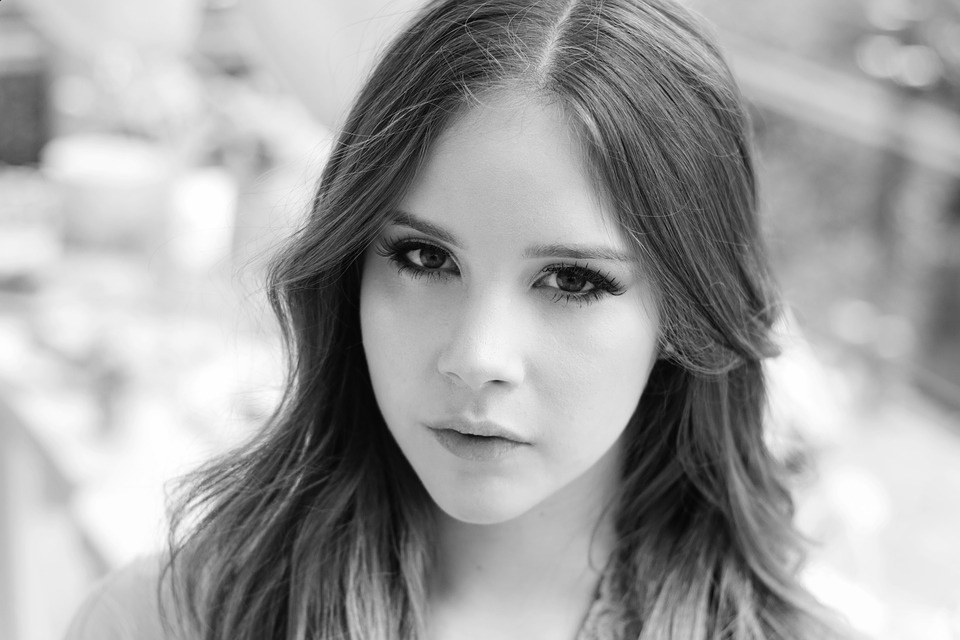
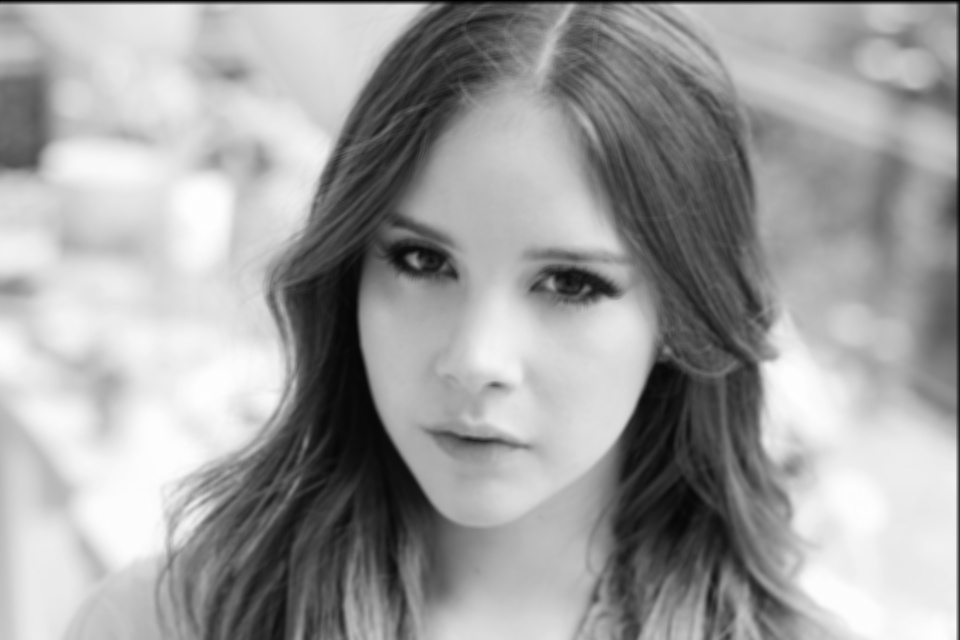
HLS blur works

diff --git a/src/zdma.c b/src/zdma.c
@@ -442,10 +442,10 @@ static void dma_issue(struct work_struct *work)
 	}
 	
 	for (int i = 1; i < CORE_PARAM_CNT; ++i) {
-		if (p->core->reg_off[i+1] == 0) continue;
+		if (p->core->reg_off[i] == 0) continue;
 		pr_info("param: part %s: off: %x, val: %x\n", 
-			partition->name, p->core->reg_off[i+1], p->core_param[i]);
-		iowrite32(p->core_param[i], partition->vbase + p->core->reg_off[i+1]);
+			partition->name, p->core->reg_off[i], p->core_param[i-1]);
+		iowrite32(p->core_param[i-1], partition->vbase + p->core->reg_off[i]);
 	}
 	iowrite32(CORE_START, partition->vbase); // ap_start = 1
 
@@ -527,8 +527,12 @@ static void dma_issue(struct work_struct *work)
 		goto dma_error;
 	}
 	
-	pr_info("core %s return value %d\n", p->core->name,
-		ioread32(partition->vbase + p->core->reg_off[0]));
+	// mostly debug, register somewhere a non-zero
+	if (p->core->reg_off[0]) {
+		pr_info("core %s return value %d\n", p->core->name,
+			ioread32(partition->vbase + p->core->reg_off[0]));
+	}
+
 	csr = ioread32(partition->vbase);
 	if (!(csr & CORE_DONE)) {
 		pr_emerg("core %s at %s is in an unexpected state: "

diff --git a/hw/cores/testbench.cpp b/hw/cores/testbench.cpp
@@ -17,6 +17,7 @@ int main (int argc, char* argv[]) {
 		uint8_t at[8];
 	} pixel;
 
+	img.data[0] = 42;
 	for (int i = 0; i < size/8; ++i) {
 		++c;
 		x.data = ((uint64_t *)img.data)[i];
@@ -25,7 +26,7 @@ int main (int argc, char* argv[]) {
 		src << x;
 	}
 	ap_uint<4> debug;
-	int ret = blur(src, dst, img.cols, 1, &debug);
+	int ret = blur(src, dst, img.cols, 11, &debug);
 	int err = 0;
 
 	c = 0;
@@ -35,7 +36,11 @@ int main (int argc, char* argv[]) {
 	} while (!x.last);
 
 	cout << "return value is " << ret << ", debug: " << int(debug) << endl;
-	cout << "first data is " << int(imgout.data[0]) << ":" << int(imgout.data[1]) << endl;
-	imwrite("./out.jpg", imgout);
+	cout << int(imgout.data[0]) << ":" << int(imgout.data[1]) << ":" <<
+			int(imgout.data[2]) << ":" << int(imgout.data[3]) << ":" <<
+			int(imgout.data[4]) << ":" << int(imgout.data[5]) << ":" <<
+			int(imgout.data[6]) << ":" << int(imgout.data[7]) << endl;
+
+	imwrite("./out1.jpg", imgout);
 	return 0;
 }

diff --git a/hw/cores/blur.cpp b/hw/cores/blur.cpp
@@ -12,7 +12,7 @@ int32_t blur(axi_stream_t& src, axi_stream_t& dst, int32_t line_width, int32_t k
 #pragma HLS INTERFACE ap_stable port=kernel_dim
 #pragma HLS INTERFACE ap_none port=debug
 	axi_elem_t data_in, data_out;
-	int32_t ret = 0;
+	int32_t ret = line_width;
 	uint8_t lnbuf[KERNEL_DIM][LINE_WIDTH];
 	ap_int<24> kern[KERNEL_DIM][KERNEL_DIM];
 	int32_t win[8][KERNEL_DIM][KERNEL_DIM];
@@ -27,9 +27,8 @@ int32_t blur(axi_stream_t& src, axi_stream_t& dst, int32_t line_width, int32_t k
 
 	for(int i = 0; i < kernel_dim; ++i) for (int j = 0; j < kernel_dim; ++j) {
 		kern[i][j] = ((1 << 23) - 1) / (kernel_dim*kernel_dim);
-		*debug = 12;
 	}
-
+	*debug = kernel_dim;
 	int col = 0;
 	do {
 		src >> data_in;

diff --git a/src/zapp.cpp b/src/zapp.cpp
@@ -61,7 +61,7 @@ int main(int argc, char **argv)
 	for (int j = 0; j < task_num; ++j) {
 		err = zdma_task_init(&task[j]);
 		assert(!err);
-		err = zdma_task_configure(&task[j], "blur", img_size, img_size, 2, img.cols, 1);
+		err = zdma_task_configure(&task[j], "blur", img_size, img_size, 2, img.cols, kern);
 		memcpy(task[j].tx_buf, img.data, img_size);
 		assert(!err);
 	}
